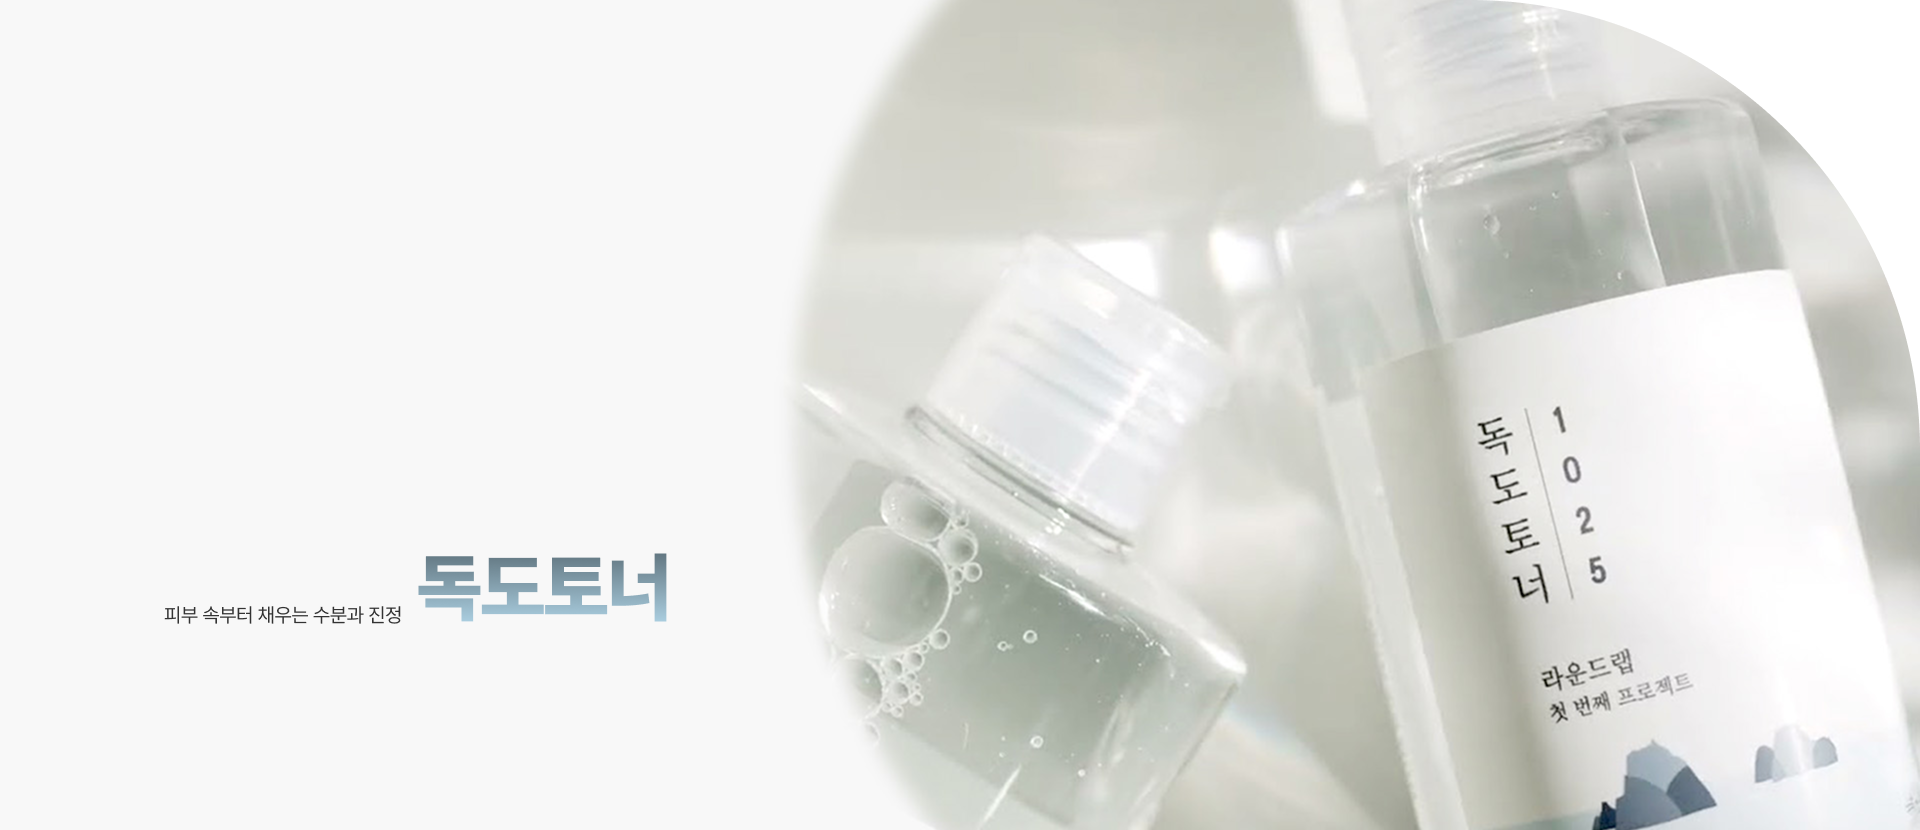
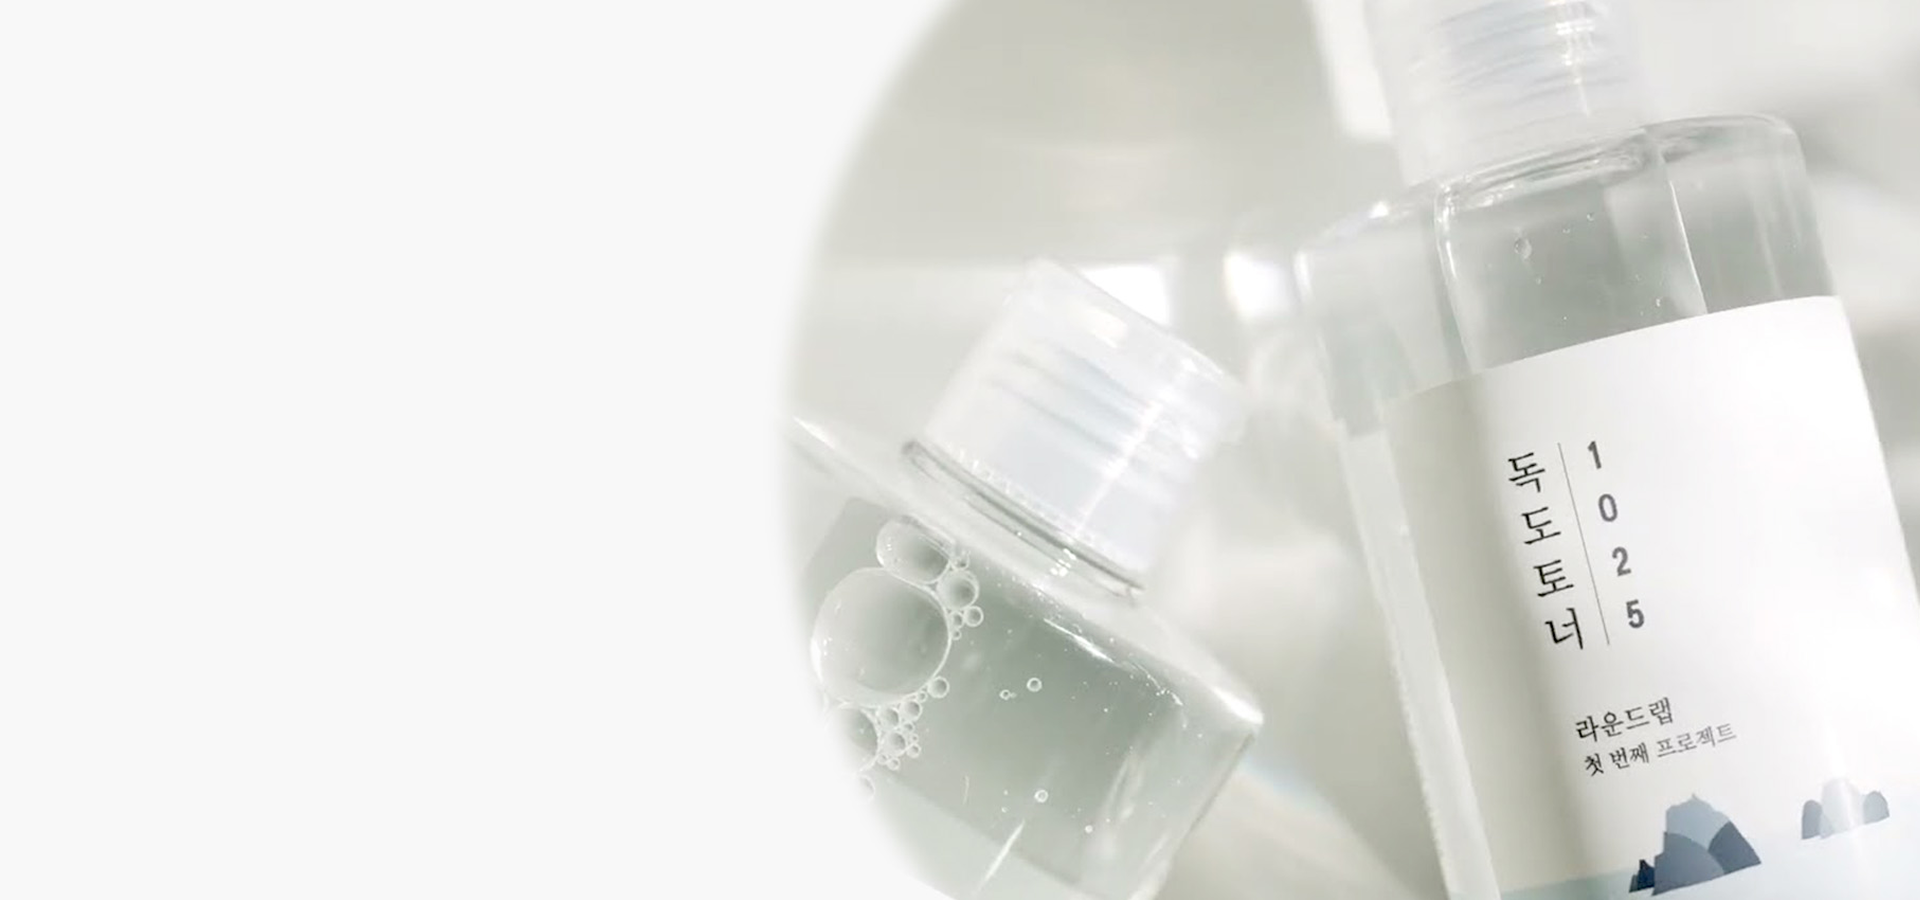
수정중

diff --git a/styles/common.css b/styles/common.css
@@ -1,6 +1,6 @@
 /* common.css */
 body {
-    width:1920px;
+    width:1900px;
 }
 
 /* header */
@@ -10,14 +10,17 @@ header .ad_bnr {
 }
 header .ad_bnr a {}
 header .ad_bnr a:last-child {
-    position:absolute; right:30px; bottom:5px;
+    position:absolute; right:20px; bottom:5px;
 }
 header .ad_bnr a img {}
 
 header .header {
+    width:1680px;
     display:flex; justify-content: space-between;
     align-items:end;
-    padding:5px 120px;
+    padding:30px 0 5px;
+    position:absolute; left:120px; top:0;
+    z-index: 10;
 }
 header .header h1 {}
 header .header h1 a {}
@@ -26,11 +29,13 @@ header .header h1 a img {}
 header .header nav {}
 header .header nav .gnb {
     display:flex;
+    position:relative;
 }
 header .header nav .gnb > li {
     font-weight:500;
     margin-right:40px;
     padding-bottom:5px;
+    position:relative;
 }
 header .header nav .gnb > li > a {
     font-weight:500;
@@ -52,47 +57,40 @@ header .header nav .gnb > li > a::after {
 }
 header .header nav .gnb > li > a:last-child {margin-right:0;}
 
+
 header .header nav .gnb > li:hover .lnb_bg {display:block;}
 header .header nav .gnb > li .lnb_bg {display:none;}
-header .header nav .gnb > li .lnb_bg1 {
+header .header nav .gnb > li .lnb_bg {
     background-color:rgba(255,255,255,0.8);
-    width:max-content;
+    /* width:600px; */ 
     padding:20px 50px;
-    position:absolute; left:600px; top:95px;
+    position:absolute; left:-80%; top:100%;
     z-index:100;
 }
-header .header nav .gnb > li .lnb_bg2 {
-    background-color:rgba(255,255,255,0.8);
-    width:max-content;
-    padding:20px 80px;
-    position:absolute; left:700px; top:95px;
-    z-index:100;
-}
-header .header nav .gnb > li .lnb_bg3 {
-    background-color:rgba(255,255,255,0.8);
-    width:max-content;
-    padding:20px 80px;
-    position:absolute; right:750px; top:95px;
-    z-index:100;
-}
-header .header nav .gnb > li .lnb_bg1 .lnb_depth1 {
+
+header .header nav .gnb > li .lnb_bg1 {}
+header .header nav .gnb > li .lnb_bg2 {}
+header .header nav .gnb > li .lnb_bg3 {}
+
+
+header .header nav .gnb > li .lnb_bg .lnb_depth1 {
     width:max-content;
     display:flex;
     text-align:center;
 }
-header .header nav .gnb > li .lnb_bg1 .lnb_depth1 > li {
+header .header nav .gnb > li .lnb_bg .lnb_depth1 > li {
     margin-right:100px; padding:10px;
 }
-header .header nav .gnb > li .lnb_bg2 .lnb_depth1 > li,
-header .header nav .gnb > li .lnb_bg3 .lnb_depth1 > li {
-    margin-bottom: 20px;
-}
+
 header .header nav .gnb > li .lnb_bg .lnb_depth1 > li:last-child {
     margin-right:0; margin-bottom: 0;
 }
 header .header nav .gnb > li .lnb_bg .lnb_depth1 > li a {
     font-weight:500;
     color:#333;
+}
+header .header nav .gnb > li .lnb_bg .lnb_depth1 > li a:hover {
+    color:#0E4885;
 }
 
 header .header nav .gnb > li .lnb_bg .lnb_depth1 > li .lnb_depth2 {
@@ -106,11 +104,11 @@ header .header nav .gnb > li .lnb_bg .lnb_depth1 > li .lnb_depth2 > li:last-chil
 }
 header .header nav .gnb > li .lnb_bg .lnb_depth1 > li .lnb_depth2 > li a {
     font-weight:400;
-    color:#333;
+    color:rgba(51, 51, 51, 0.7);
 }
-
-
-
+header .header nav .gnb > li .lnb_bg .lnb_depth1 > li .lnb_depth2 > li a:hover {
+    color:#0E4885;
+}
 
 header .header .left {
     display:flex; align-items:center;
@@ -128,9 +126,10 @@ header .header .left .search_box {
 header .header .left .search_box input {
     font-size:0.75rem;
     width:180px;
+    background-color: transparent;
 }
 header .header .left .search_box > a {
-    position:absolute; right:10px; top:5px;
+    position:absolute; right:10px; top:4px;
 
 }
 header .header .left .search_box a img {}
@@ -140,15 +139,45 @@ header .header .left p {
 header .header .left p a {}
 header .header .left p a img {}
 header .header .left .leng {
-    border:1px solid #eee;
+    border:1px solid #333;
     border-radius:5px;
     width:57px; height:23px;
     font-size:0.813rem;
     text-align:center;
+    background-color: transparent;
 }
 header .header .left .leng option {
     font-size:0.813rem;
 }
+
+
+header .ad_swiper{}
+header .ad_swiper .swiper-wrapper {
+    width:100%; height:900px;
+}
+header .ad_swiper .swiper-wrapper .swiper-slide {
+    height:100%;
+}
+header .ad_swiper .swiper-wrapper .slide1 {
+    background-image:url(../images/main_bnr.png);
+}
+header .ad_swiper .swiper-wrapper .slide2 {
+    background-image:url(../images/main_bnr.png);
+}
+header .ad_swiper .swiper-wrapper .slide3 {
+    background-image:url(../images/main_bnr.png);
+}
+header .ad_swiper .swiper-button-prev,
+header .ad_swiper .swiper-button-next {
+    color: #0E4885; opacity:50%;
+}
+header .ad_swiper .swiper-pagination {}
+header .ad_swiper .swiper-pagination-bullet {
+    background-color: #0E4885;
+}
+
+
+
 
 /* footer */
 footer {

diff --git a/index.html b/index.html
@@ -17,10 +17,6 @@
 </head>
 <body>
     <header>
-        <div class="ad_bnr">
-            <a href="#" class="olive_ad"><img src="./images/ad_bnr1.png" alt="올리브영 광고배너"></a>
-            <a href="#" class="close_btn"><img src="./images/icon_close.png" alt="닫기버튼"></a>
-        </div>
         <div class="header">
             <h1><a href="./index.html" class="logo"><img src="./images/header/logo.png" alt="라운드랩 바로가기"></a></h1>
             <nav>
@@ -90,13 +86,11 @@
                 <p><a href="#"><img src="./images/header/icon_user.png" alt="마이페이지 바로가기"></a></p>
                 <select name="KR" class="leng">
                     <option>KR</option>
-                    <option value="#">ENGLISH</option>
+                    <option value="#">EN</option>
                     <option value="#">中文</option>
                 </select>
             </div>
         </div>
-    </header>
-    <main>
         <!-- 1행 메인사진 -->
         <div class="swiper ad_swiper">
             <div class="swiper-wrapper">
@@ -104,8 +98,16 @@
                 <div class="swiper-slide slide2"></div>
                 <div class="swiper-slide slide3"></div>
             </div>
+            <div class="swiper-button-prev"></div>
+            <div class="swiper-button-next"></div>
             <div class="swiper-pagination"></div>
         </div>
+        <div class="ad_bnr">
+            <a href="#" class="olive_ad"><img src="./images/ad_bnr1.png" alt="올리브영 광고배너"></a>
+            <a href="#" class="close_btn"><img src="./images/icon_close.png" alt="닫기버튼"></a>
+        </div>
+    </header>
+    <main>
         <!-- 2행 홍보문구 -->
         <div class="title_g">
             <div class="title">
@@ -374,7 +376,6 @@
                             </div>
                         </div>
                     </div>
-                    <div class="swiper-scrollbar"></div>
                 </div>
             </div>
         </div>
@@ -389,7 +390,7 @@
                     <div class="swiper-wrapper">
                         <div class="swiper-slide slide1">
                             <div class="vedio_content">
-                                <iframe src="https://www.youtube.com/embed/XQAaq2ZwCBo" title="믿고 쓰는 국민 토너! 피부 결 환생 1025 독도 토너💦" frameborder="0" allow="accelerometer; autoplay; clipboard-write; encrypted-media; gyroscope; picture-in-picture; web-share" referrerpolicy="strict-origin-when-cross-origin" allowfullscreen></iframe>
+                                <iframe src="https://www.youtube.com/embed/XQAaq2ZwCBo?&mute=1&loop=1&controls=0&playlist=XQAaq2ZwCBo" title="믿고 쓰는 국민 토너! 피부 결 환생 1025 독도 토너💦" frameborder="0" referrerpolicy="strict-origin-when-cross-origin" allowfullscreen></iframe>
                             </div>
                             <div class="vedio_product">
                                 <p><img src="./images/video/product001.png" alt="독도토너"></p>

diff --git a/styles/index.css b/styles/index.css
@@ -8,26 +8,30 @@
 main {}
 
 /* 1행 메인사진 */
-main  .ad_swiper{}
+/* main  .ad_swiper{}
 main  .ad_swiper .swiper-wrapper {
-    width:1920px; height:830px;
+    width:100%; height:830px;
 }
 main  .ad_swiper .swiper-wrapper .swiper-slide {
     height:100%;
 }
 main  .ad_swiper .swiper-wrapper .slide1 {
-    background-image:url(../images/main_bnr.png);
+    background-image:url(../images/main_bnr1.png);
 }
 main  .ad_swiper .swiper-wrapper .slide2 {
-    background-image:url(../images/main_bnr.png);
+    
 }
 main  .ad_swiper .swiper-wrapper .slide3 {
-    background-image:url(../images/main_bnr.png);
+    
+}
+main  .ad_swiper .swiper-button-prev,
+main  .ad_swiper .swiper-button-next {
+    color: #0E4885; opacity:50%;
 }
 main  .ad_swiper .swiper-pagination {}
 main  .ad_swiper .swiper-pagination-bullet {
     background-color: #0E4885;
-}
+} */
 
 /* =========================================== */
 
@@ -224,7 +228,7 @@ main .best_product .content .best_swiper .swiper-wrapper .swiper-slide .prod_con
 }
 main .best_product .content .best_swiper .swiper-scrollbar {}
 main .best_product .content .best_swiper .swiper-scrollbar-drag {
-    background-color: #0E4885;
+    background-color: #0E4885; opacity:50%;
 }
 
 
@@ -261,6 +265,7 @@ main .vedio_bg .content_g .vedio_swiper .swiper-wrapper .swiper-slide {
 main .vedio_bg .content_g .vedio_swiper .swiper-wrapper .swiper-slide .vedio_content {} 
 main .vedio_bg .content_g .vedio_swiper .swiper-wrapper .swiper-slide .vedio_content iframe {
     width:1000px; height:700px;
+    border-radius: 10px;
 } 
 
 main .vedio_bg .content_g .vedio_swiper .swiper-wrapper .swiper-slide .vedio_product {
@@ -351,6 +356,7 @@ main .review_bg .review_swiper .swiper-wrapper .swiper-slide .review_content p {
 }
 main .review_bg .review_swiper .swiper-wrapper .swiper-slide .review_content p.ani {
     animation: review 1s ease both;
+    /* opacity: 1; transform: translateY(0); */
 }
 main .review_bg .review_swiper .swiper-slide .review_content p:nth-child(1) {}
 main .review_bg .review_swiper .swiper-slide .review_content p.ani:nth-child(2) {
@@ -470,7 +476,6 @@ main .instagram_wrap .insta_title a img {}
 
 main .instagram_wrap .insta_swiper {
     position:relative;
-    width:1920px;
 }
 main .instagram_wrap .insta_swiper .swiper-wrapper {}
 main .instagram_wrap .insta_swiper .swiper-wrapper .swiper-slide {}

diff --git a/scripts/index.js b/scripts/index.js
@@ -10,6 +10,10 @@ const adList = new Swiper('.ad_swiper',{
         el: '.swiper-pagination',
         type:'bullets',
     },
+    navigation: {
+        nextEl: '.swiper-button-next',
+        prevEl: '.swiper-button-prev',
+    },
 });
 const newList = new Swiper('.new_swiper',{
     slidesPerView:1, //전체개수가 아니라 보이는 개수가 기준
@@ -44,37 +48,27 @@ const vedioList = new Swiper('.vedio_swiper',{
 });
 
 const pAni = document.querySelectorAll('.review_content p');
-const reviewList = new Swiper('.review_swiper',{
+const reviewSLide = new Swiper('.review_swiper',{
     slidesPerView:1, //전체개수가 아니라 보이는 개수가 기준
     spaceBetween:10, //사이 여백
-    autoplay:{delay:5000},
+    autoplay:{delay:3000},
     loop:true,
     pagination: {
         el: '.review_swiper+.swiper-pagination',
         type:'bullets',
     },
     on:{
+        init(){
+            const activeSlide = this.slides[this.activeIndex];
+            for(let i of activeSlide.querySelectorAll('p')) i.classList.add('ani');
+        },
         slideChange:function(){
-            
-            for(let i=0; i<pAni.length; i++){
-                console.log(2)
-                // pAni[i].style.opacity = '1'
-                pAni[i].classList.add('ani')
-            }
+            for(let i of pAni) i.classList.remove('ani');
+            const activeSlide = this.slides[this.activeIndex];
+            for(let i of activeSlide.querySelectorAll('p')) i.classList.add('ani');
         }
     }
 });
-
-/* const reviewP = setTimeout(()=>{
-    
-    const pAni = document.querySelectorAll('.review_content p');
-    console.log(pAni);
-
-    for(let i=0; i<pAni.length; i++){
-        pAni[i].classList.add('ani')
-    }
-},100); */
-
 
 const instaList = new Swiper('.insta_swiper',{
     slidesPerView:7, //전체개수가 아니라 보이는 개수가 기준
